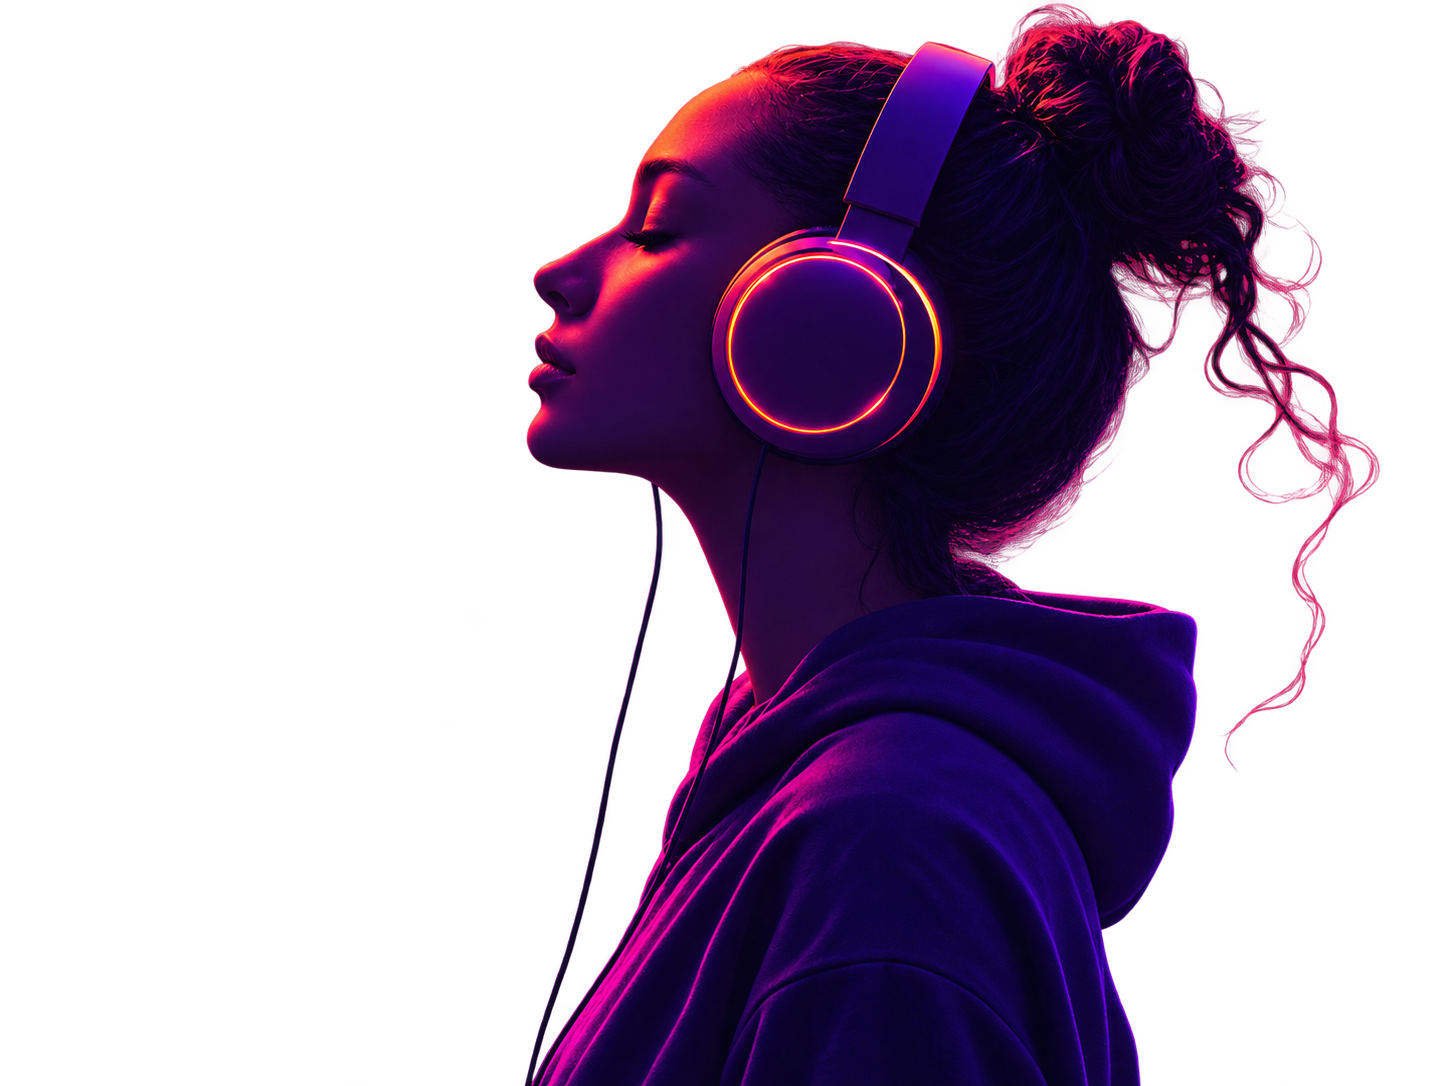
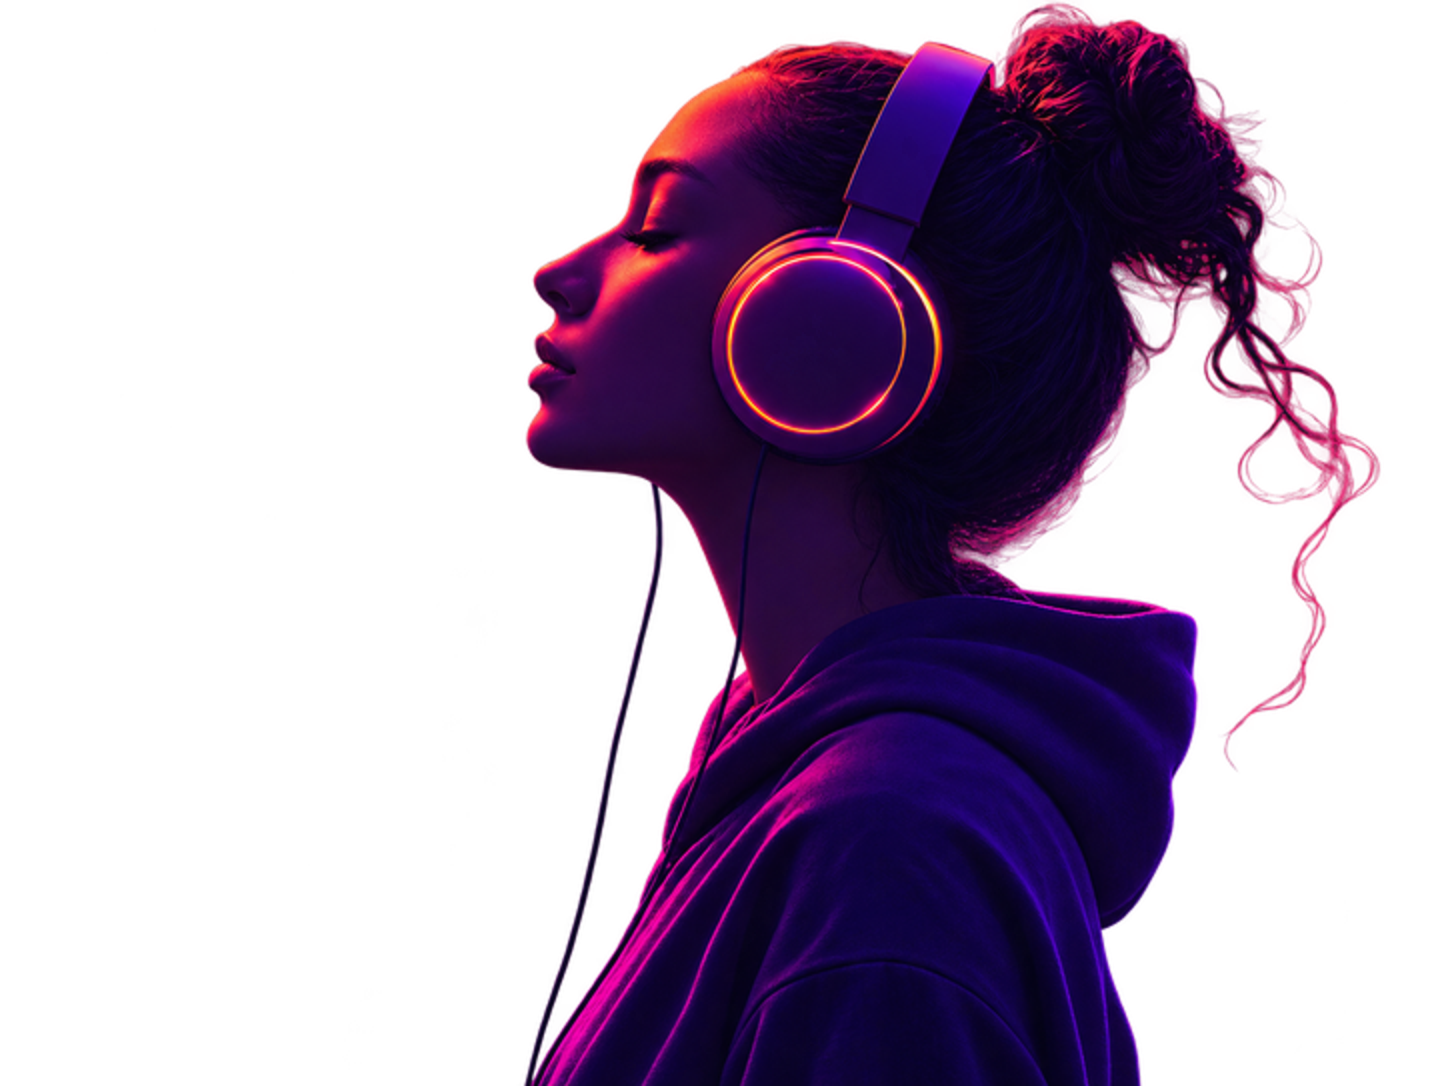
feat(hero): add ambient effects and improve hero section layout

diff --git a/frontend/src/components/HeroAmbient.tsx b/frontend/src/components/HeroAmbient.tsx
@@ -1,0 +1,280 @@
+import { useEffect, useRef } from "react";
+
+/* Ambient hero field, ported from the reference hero: hairline ripples
+   expanding from two anchors, three slow orbit arcs, and rising motes.
+   Purely decorative — it sits under the figure and the copy, pauses while
+   off-screen or in a background tab, and renders one still frame when the
+   visitor asks for reduced motion. */
+
+type Rgb = { r: number; g: number; b: number };
+
+type Ripple = {
+  origin: number;
+  born: number;
+  life: number;
+  maxR: number;
+  peak: number;
+  accent: boolean;
+};
+
+type Mote = {
+  bx: number;
+  y: number;
+  vy: number;
+  swayAmp: number;
+  swayW: number;
+  phase: number;
+  size: number;
+  baseA: number;
+  twW: number;
+  accent: boolean;
+};
+
+const ORIGINS = [
+  { x: 0.76, y: 0.2, maxR: 0.5 },
+  { x: 0.13, y: 0.56, maxR: 0.38 },
+];
+
+const ARCS = [
+  { origin: 0, radius: 0.24, span: 1.7, speed: 0.028, phase: 0.4, ink: 0.075, accent: false },
+  { origin: 0, radius: 0.33, span: 0.85, speed: -0.017, phase: 2.6, ink: 0.1, accent: true },
+  { origin: 1, radius: 0.27, span: 1.25, speed: 0.021, phase: 4.4, ink: 0.06, accent: false },
+];
+
+/* Hairlines read as neutral light; the 30% "accent" rings pick up the
+   hero's gold so the field ties to the waveform mark. */
+const INK: Rgb = { r: 250, g: 250, b: 250 };
+const ACCENT: Rgb = { r: 179, g: 171, b: 128 };
+
+const easeOutSine = (t: number) => Math.sin((t * Math.PI) / 2);
+const rgba = (color: Rgb, alpha: number) =>
+  `rgba(${color.r},${color.g},${color.b},${alpha.toFixed(3)})`;
+
+export default function HeroAmbient() {
+  const hostRef = useRef<HTMLDivElement>(null);
+  const canvasRef = useRef<HTMLCanvasElement>(null);
+
+  useEffect(() => {
+    const host = hostRef.current;
+    const canvas = canvasRef.current;
+    if (!host || !canvas) return;
+
+    const ctx = canvas.getContext("2d");
+    if (!ctx) return;
+
+    let width = 0;
+    let height = 0;
+
+    const resize = () => {
+      width = host.clientWidth;
+      height = host.clientHeight;
+      const dpr = Math.min(window.devicePixelRatio || 1, 2);
+      canvas.width = Math.round(width * dpr);
+      canvas.height = Math.round(height * dpr);
+      ctx.setTransform(dpr, 0, 0, dpr, 0, 0);
+    };
+    resize();
+
+    let motes: Mote[] = [];
+    const seedMotes = () => {
+      const count = Math.max(14, Math.min(30, Math.round((width * height) / 42_000)));
+      motes = Array.from({ length: count }, () => ({
+        bx: Math.random() * width,
+        y: Math.random() * height,
+        vy: 2.5 + Math.random() * 4.5,
+        swayAmp: 6 + Math.random() * 16,
+        swayW: (Math.PI * 2) / (9 + Math.random() * 9),
+        phase: Math.random() * Math.PI * 2,
+        size: 0.7 + Math.random() * 1.1,
+        baseA: 0.09 + Math.random() * 0.13,
+        twW: 0.35 + Math.random() * 0.5,
+        accent: Math.random() < 0.24,
+      }));
+    };
+    seedMotes();
+
+    let ripples: Ripple[] = [];
+    let rippleIndex = 0;
+    let nextSpawn = 0;
+
+    const makeRipple = (time: number, origin?: number): Ripple => {
+      const index = origin ?? rippleIndex++ % 2;
+      const accent = Math.random() < 0.3;
+      return {
+        origin: index,
+        born: time,
+        life: 16_000 + Math.random() * 6_000,
+        maxR:
+          Math.min(width, height) *
+          ORIGINS[index].maxR *
+          (0.85 + Math.random() * 0.3),
+        peak: accent ? 0.17 : 0.1,
+        accent,
+      };
+    };
+
+    /* Three ripples are already in flight on first paint. */
+    ripples = [0.32, 0.58, 0.82].map((progress, i) => {
+      const life = 16_000 + i * 2_500;
+      const ripple = makeRipple(-progress * life, i % 2);
+      ripple.life = life;
+      ripple.born = -progress * life;
+      return ripple;
+    });
+
+    const draw = (time: number, dt: number) => {
+      ctx.clearRect(0, 0, width, height);
+      const seconds = time / 1000;
+      const shortest = Math.min(width, height);
+
+      ripples = ripples.filter((ripple) => (time - ripple.born) / ripple.life < 1);
+
+      for (const ripple of ripples) {
+        const progress = (time - ripple.born) / ripple.life;
+        if (progress < 0) continue;
+
+        const radius = ripple.maxR * easeOutSine(Math.min(1, progress));
+        const envelope = Math.pow(Math.sin(Math.PI * Math.min(1, progress)), 1.1);
+        const alpha = ripple.peak * envelope;
+        const color = ripple.accent ? ACCENT : INK;
+        const { x, y } = ORIGINS[ripple.origin];
+
+        ctx.lineWidth = 1;
+        ctx.strokeStyle = rgba(color, alpha);
+        ctx.beginPath();
+        ctx.arc(x * width, y * height, radius, 0, Math.PI * 2);
+        ctx.stroke();
+
+        ctx.strokeStyle = rgba(color, alpha * 0.4);
+        ctx.beginPath();
+        ctx.arc(x * width, y * height, radius * 0.88, 0, Math.PI * 2);
+        ctx.stroke();
+      }
+
+      if (time >= nextSpawn) {
+        ripples.push(makeRipple(time));
+        nextSpawn = time + 3800 + Math.random() * 2600;
+      }
+
+      for (const arc of ARCS) {
+        const radius =
+          Math.max(90, Math.min(460, arc.radius * shortest)) *
+          (1 + 0.018 * Math.sin(seconds * 0.13 + arc.phase * 2));
+        const start = arc.phase + arc.speed * seconds;
+        const { x, y } = ORIGINS[arc.origin];
+
+        ctx.lineWidth = 1;
+        ctx.strokeStyle = rgba(arc.accent ? ACCENT : INK, arc.ink);
+        ctx.beginPath();
+        ctx.arc(x * width, y * height, radius, start, start + arc.span);
+        ctx.stroke();
+      }
+
+      for (const mote of motes) {
+        mote.y -= mote.vy * dt;
+        if (mote.y < -12) {
+          mote.y = height + 10;
+          mote.bx = Math.random() * width;
+        }
+        const x = mote.bx + Math.sin(seconds * mote.swayW + mote.phase) * mote.swayAmp;
+        const alpha = Math.max(
+          0,
+          mote.baseA * (0.62 + 0.38 * Math.sin(seconds * mote.twW + mote.phase * 1.7)),
+        );
+        ctx.fillStyle = rgba(mote.accent ? ACCENT : INK, alpha);
+        ctx.beginPath();
+        ctx.arc(x, mote.y, mote.size, 0, Math.PI * 2);
+        ctx.fill();
+      }
+    };
+
+    /* Reduced motion: one composed still frame, no loop. */
+    const drawStill = () => {
+      const now = performance.now();
+      const held = ripples;
+      ripples = [0.24, 0.52, 0.78].map((progress, i) => {
+        const life = 16_000 + i * 2_500;
+        return {
+          origin: i % 2,
+          born: now - progress * life,
+          life,
+          maxR: Math.min(width, height) * ORIGINS[i % 2].maxR * 0.95,
+          peak: i === 1 ? 0.17 : 0.1,
+          accent: i === 1,
+        };
+      });
+      draw(now, 0);
+      ripples = held;
+    };
+
+    const reduceMotion = window.matchMedia("(prefers-reduced-motion: reduce)");
+
+    const resizeObserver = new ResizeObserver(() => {
+      // Resizing resets the backing store, so repaint the still frame when
+      // the visitor is not running the loop.
+      resize();
+      seedMotes();
+      if (reduceMotion.matches) drawStill();
+    });
+    resizeObserver.observe(host);
+
+    let visible = true;
+    const intersectionObserver = new IntersectionObserver(
+      ([entry]) => {
+        visible = entry.isIntersecting;
+      },
+      { rootMargin: "80px" },
+    );
+    intersectionObserver.observe(host);
+
+    let frame = 0;
+    let lastTime = performance.now();
+
+    const tick = (time: number) => {
+      frame = requestAnimationFrame(tick);
+      if (reduceMotion.matches || !visible || document.hidden) {
+        lastTime = time;
+        return;
+      }
+      const dt = Math.min(0.05, (time - lastTime) / 1000);
+      lastTime = time;
+      draw(time, dt);
+    };
+
+    const handleMotionChange = () => {
+      if (reduceMotion.matches) {
+        cancelAnimationFrame(frame);
+        drawStill();
+      } else {
+        lastTime = performance.now();
+        nextSpawn = lastTime + 1200;
+      }
+    };
+    reduceMotion.addEventListener("change", handleMotionChange);
+
+    host.style.opacity = "1";
+    if (reduceMotion.matches) {
+      drawStill();
+    } else {
+      nextSpawn = performance.now() + 1400;
+      frame = requestAnimationFrame(tick);
+    }
+
+    return () => {
+      cancelAnimationFrame(frame);
+      resizeObserver.disconnect();
+      intersectionObserver.disconnect();
+      reduceMotion.removeEventListener("change", handleMotionChange);
+    };
+  }, []);
+
+  return (
+    <div
+      ref={hostRef}
+      aria-hidden
+      className="hero-ambient pointer-events-none absolute inset-0 z-0 opacity-0 transition-opacity duration-[1600ms] ease-out"
+    >
+      <canvas ref={canvasRef} className="size-full" />
+    </div>
+  );
+}

diff --git a/frontend/src/components/Hero.tsx b/frontend/src/components/Hero.tsx
@@ -1,5 +1,6 @@
 import { AudioLines } from "lucide-react";
 import girl from "../assets/girl-headphones.png";
+import HeroAmbient from "./HeroAmbient";
 
 /* Primary hero — Zound backdrop, beats-icon heading lockup, girl cutout
    anchored bottom-right over a palette glow ring. The navbar is a separate
@@ -24,10 +25,14 @@ export default function Hero() {
           }}
         />
 
+        {/* Ambient field — hairline ripples, orbit arcs, rising motes. Sits
+            above the glow but under the figure (z-10) and copy (z-20). */}
+        <HeroAmbient />
+
         {/* Heading — large AudioLines icon left of the two-line heading,
-            centred in the stage */}
+            centred in the stage; supporting copy sits directly below it */}
         <div
-          className="rise-in relative z-20 px-8 pb-24 sm:px-14 md:pb-0"
+          className="rise-in relative z-20 px-8 sm:px-14"
           style={{ animationDelay: "520ms" }}
         >
           <div className="flex items-center gap-9 sm:gap-16">
@@ -49,17 +54,25 @@ export default function Hero() {
               </h1>
             </div>
           </div>
-        </div>
 
-        {/* Supporting copy — the mock's bottom-left paragraph slot, absolutely
-            placed so the heading lockup above is untouched */}
-        <p
-          className="rise-in absolute bottom-[13%] left-6 z-20 max-w-md text-[clamp(0.85rem,1.1vw,1.05rem)] font-normal leading-relaxed text-white/80 sm:left-10"
-          style={{ animationDelay: "680ms" }}
-        >
-          Connect with people who feel your music, understand your vibe, and
-          share your rhythm.
-        </p>
+          {/* Supporting copy — sits in normal flow just below the heading and
+              stays aligned with the heading text; from xl up it holds three
+              set lines within the heading's column. */}
+          <p
+            className="mt-6 max-w-lg text-[clamp(0.85rem,1.1vw,1.05rem)] font-normal leading-relaxed text-white/80 sm:mt-7 sm:pl-[144px] lg:pl-[160px] xl:max-w-[48rem] xl:text-[clamp(0.8rem,1.02vw,0.95rem)]"
+            style={{
+              textShadow:
+                "0 1px 2px rgba(5, 3, 8, 0.9), 0 6px 24px rgba(5, 3, 8, 0.85)",
+            }}
+          >
+            Connect with people who feel your music, understand your vibe{" "}
+            <br className="hidden xl:inline" />
+            and share your rhythm. Explore
+            shared interests and find {" "}
+            <br className="hidden xl:inline" />
+            people who make every beat feel enjoyable.
+          </p>
+        </div>
 
         {/* Girl — entrance on the wrapper, ambient drift nested inside so the
             two never fight; girl-soft dims + masks her so the HD cutout

diff --git a/frontend/src/components/Navbar.tsx b/frontend/src/components/Navbar.tsx
@@ -14,13 +14,13 @@ export default function Navbar() {
   };
 
   return (
-    <nav className="relative z-20 flex h-16 items-center justify-between border-b border-white/10 px-6 sm:px-10">
+    <nav className="relative z-20 flex h-16 items-center justify-between px-6 sm:px-10">
       <a href="/" className="group flex select-none items-center gap-2">
         <AudioLines
           className="h-7 w-7 text-vybe-gold transition-transform duration-300 group-hover:scale-110"
           strokeWidth={2.5}
         />
-        <span className="text-xl font-medium tracking-[0.2em] text-white/80">
+        <span className="text-xl font-bold tracking-[0.2em] text-white/80">
           VYBE
         </span>
       </a>

diff --git a/frontend/src/components/HeroAlt.tsx b/frontend/src/components/HeroAlt.tsx
@@ -10,7 +10,7 @@ export default function HeroAlt() {
   return (
     <section className="hero-backdrop relative isolate flex min-h-[calc(100vh-4rem)] flex-col overflow-hidden">
       {/* Navbar variant — logo left, centre links, outline pill right */}
-      <nav className="relative z-20 flex h-16 items-center justify-between border-b border-white/10 px-6 sm:px-10">
+      <nav className="relative z-20 mt-3 sm:mt-4 flex h-16 items-center justify-between px-6 sm:px-10">
         <a href="/" className="group flex select-none items-center gap-2">
           <AudioLines
             className="h-7 w-7 text-vybe-gold transition-transform duration-300 group-hover:scale-110"

diff --git a/frontend/src/index.css b/frontend/src/index.css
@@ -36,6 +36,25 @@ body {
     radial-gradient(ellipse 40% 40% at 55% 55%, rgba(71, 61, 67, 0.35), transparent 75%);
 }
 
+/* Ambient hero field — feather the canvas out at the top and bottom edges
+   so the ripples never end on a hard line. */
+.hero-ambient {
+  mask-image: linear-gradient(
+    to bottom,
+    transparent,
+    #000 8%,
+    #000 70%,
+    transparent
+  );
+  -webkit-mask-image: linear-gradient(
+    to bottom,
+    transparent,
+    #000 8%,
+    #000 70%,
+    transparent
+  );
+}
+
 /* ---------- Hero entrance (first-load motion) ---------- */
 
 :root {
